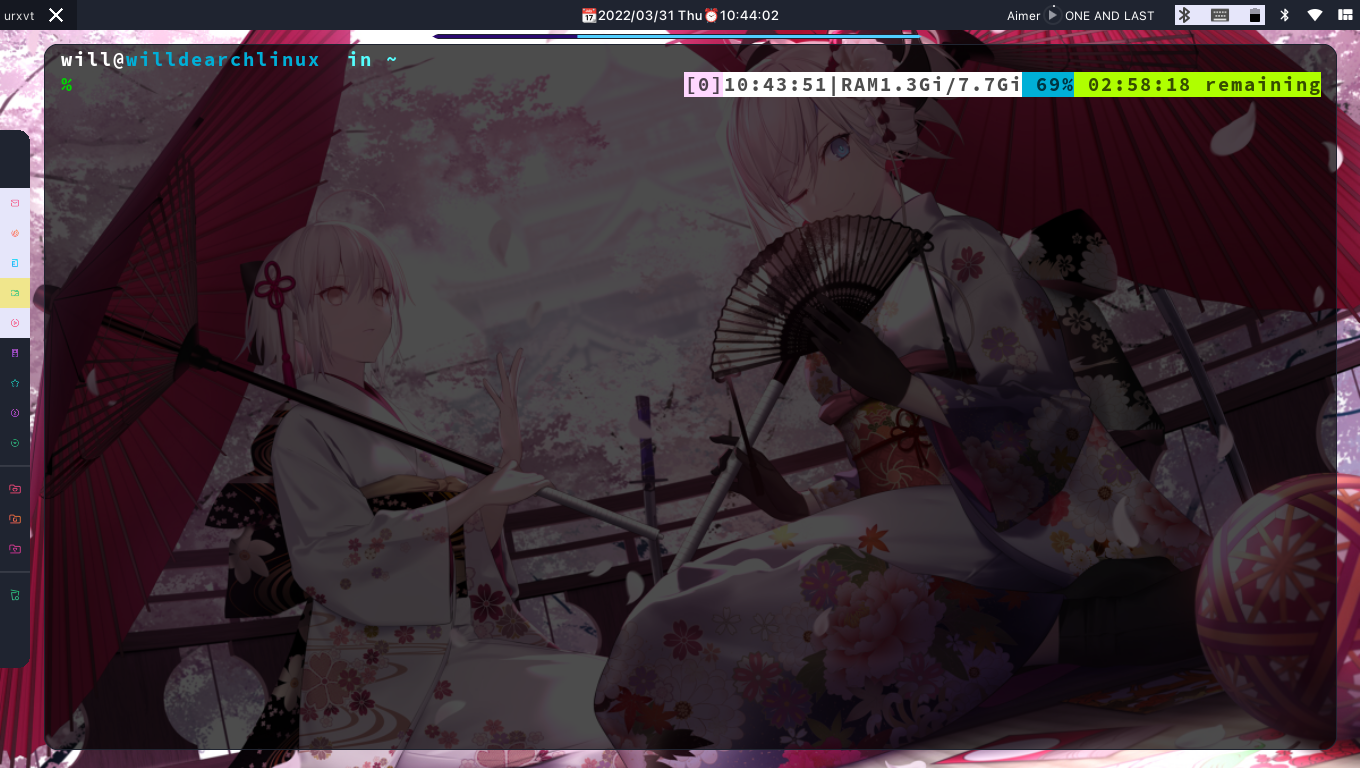
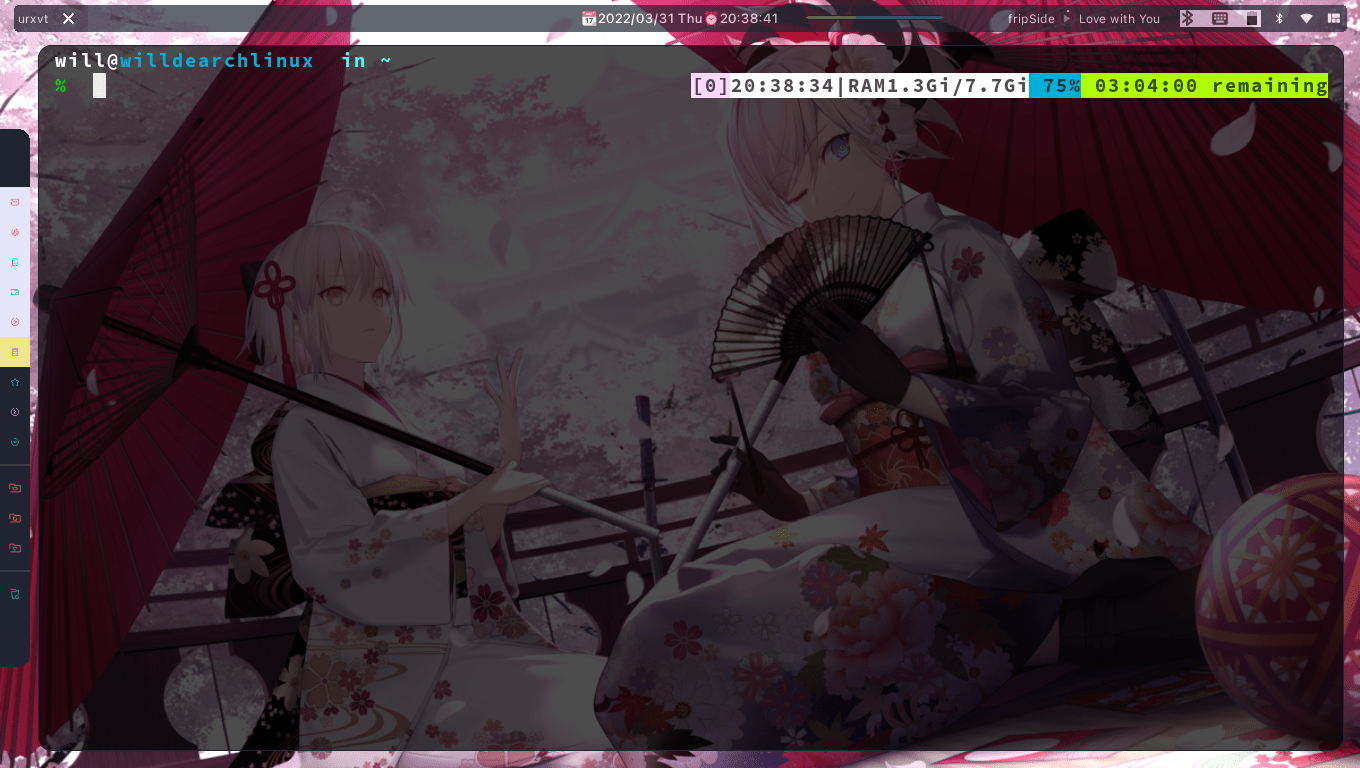
Change the style, add the setting of cmus.

diff --git a/README.md b/README.md
@@ -13,27 +13,26 @@
 ---
 
 My Awesomewm dotfiles used in archlinux. 
-</br>Also I put my .zshrc, .vimrc, .Xresources here. If you need, you can use those. 
-</br>However, I **DO NOT** promise that those must work in your computer. 
-</br>So, maybe use the part that you need, which is a good choice, I thought.
-</br>**The color in the config may be different from the screenshots below because I usually change colors of my UI to meet my need.**
+- Also I put my .zshrc, .vimrc, .Xresources here. If you need, you can use those. 
+- However, I **DO NOT** promise that those must work in your computer. 
+- Use the part that you need, which is a good choice, I thought.
+- **The color in the config may be different from the screenshots below because I usually change colors of my UI to meet my need.**
 ---
 
 # Here is the screenshots ! !
 
 ![](/screenshot/showdesktop.png)
 
-> The line under the clock is volume bar, too. Due to I don't know how to add widgets into Awesome WM, I simply make some change of volume-adjust.lua which is in the "components" folder to make it, which is called volume-adjust.lua. Also, the volume-adjust.lua made by WillPower3309 is not deleted, but changed the name, now called "volume-adjust2.lua". The bar will not disappear, which will let you always know the volume all the times. And now it won't on the top. That is to say, when watching videos in full screen, it won't appear and block the content.
+> The line next to the clock is volume bar, too. Due to I don't know how to add widgets into Awesome WM, I simply make some change of volume-adjust.lua which is in the "components" folder to make it, which is called volume-adjust.lua. Also, the volume-adjust.lua made by WillPower3309 is not deleted, but changed the name, now called "volume-adjust2.lua". The bar will not disappear, which will let you always know the volume all the times. 
+> Now top panel has changed the stytle !
 
 ![](/screenshot/showurxvt.png)
 > Here is my terminal, urxvt. Use **.Xresources** to set.
-
-
+![](/screenshot/cmus.png)
+> Here is my music player, cmus. You can check the file **autosave** to see my cmus's config.
 ![](/screenshot/rofi.png)
-> This is my rofi' s look. I change the color of default. Also, I change the radius and its size.
+> This is my rofi' s look. I change the color of default.
 
-![](/screenshot/neofetch.png)
-> Neofetch.
 ## 2022/03/31 Added mpris-widget which can play or pause music by mouse. Also, it can show the artist and song name playing.
 ![](/screenshot/add-mpris-widget.png)
 ---
